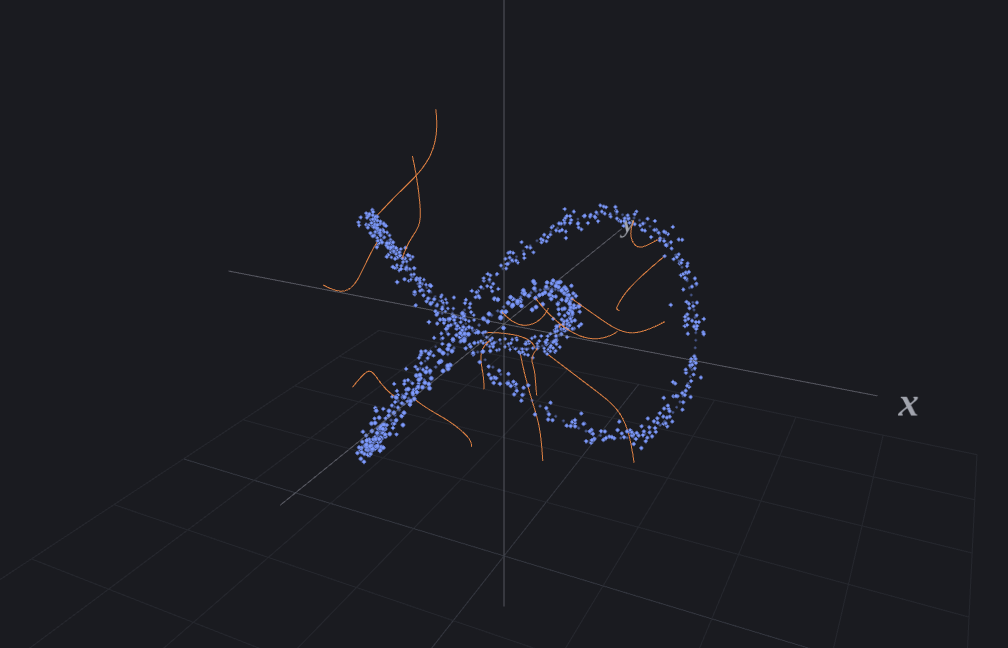
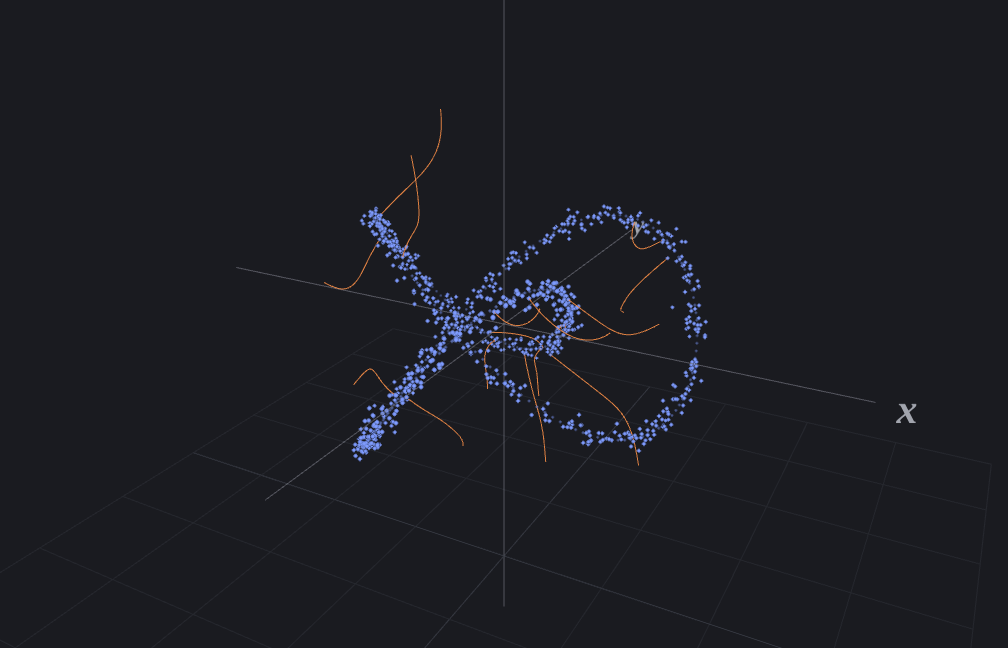
Diffusion: through-time tab, DDIM and log-SNR step spacing; cleaner loss surfaces
Adds a 1D tab showing forward SDE, reverse SDE and probability-flow ODE
paths over the density, a DDIM sampler and a choice of step spacing in
the sampling tab, and cuts 3D loss surfaces at the box instead of
flattening them. Notes updated.

Claude-Session: https://claude.ai/code/session_01T3cejAJMw34bzLhufN7u9S

diff --git a/sims/diffusion/time.js b/sims/diffusion/time.js
@@ -1,0 +1,83 @@
+// "Through time" tab: one-dimensional data, time along the x-axis. Shows the noisy density p_t(x)
+// with paths of the forward SDE (adding noise), the reverse SDE and the probability-flow ODE.
+import { Plot } from '../../assets/js/kit/plot.js';
+import { group, slider, toggle, segmented, dropdown, transport, readouts } from '../../assets/js/kit/ui.js';
+import { renderTex } from '../../assets/js/kit/tex.js';
+import { loop } from '../../assets/js/kit/anim.js';
+import { makeRng } from '../../assets/js/kit/rng.js';
+import { alphaBar, score, reverseStep, forwardStep } from './diffusion.js';
+
+const S1 = 0.1, NS = 320, T1 = 1e-3;
+const DATA1 = {
+  two: { label: 'Two values', c: [-1.3, 1.3] },
+  three: { label: 'Three values', c: [-1.7, 0, 1.7] },
+  uneven: { label: 'Uneven (3 to 1)', c: [-1.2, -1.2, -1.2, 1.5] },
+  one: { label: 'One value', c: [1.2] },
+};
+
+export function tabTime(ctx) {
+  const { stage, panel } = ctx;
+  const st = { data: 'two', mode: 'fwd', prog: 1, np: 14, heat: true, eq: true };
+  const overlay = document.createElement('div'); overlay.className = 'sim-overlay'; const card = document.createElement('div'); card.className = 'card-f'; overlay.append(card); stage.append(overlay);
+  const tmp = new Float64Array(1);
+  let paths = [], cen = new Float64Array(DATA1.two.c);
+  function build() {
+    cen = new Float64Array(DATA1[st.data].c); paths = [];
+    const rng = makeRng([21, 22, 23, 24]), noise = makeRng([31, 32, 33, 34]);   // the same starting points for the SDE and the ODE
+    for (let i = 0; i < st.np; i++) {
+      const pts = [], x = [0];
+      if (st.mode === 'fwd') { x[0] = cen[i % cen.length] + S1 * rng.normal(); pts.push([0, x[0]]); for (let k = 0; k < NS; k++) { forwardStep(x, k / NS, 1 / NS, noise); pts.push([(k + 1) / NS, x[0]]); } }
+      else { x[0] = rng.normal(); pts.push([1, x[0]]); const h = (1 - T1) / NS; for (let k = 0; k < NS; k++) { const t = 1 - h * k; reverseStep(x, t, h, cen, 1, S1, st.mode, noise, tmp); pts.push([t - h, x[0]]); } }
+      paths.push(pts);
+    }
+  }
+  const plot = new Plot(stage, {
+    view: { x: [-0.06, 1.06], y: [-3.3, 3.3] }, tickPx: 90, xLabel: 't', yLabel: 'x',
+    draw: (p) => {
+      const C = p.C, c = p.ctx, A = p.area;
+      if (st.heat) {
+        const cw = 6, ch = 5, nx = Math.ceil(A.w / cw), ny = Math.ceil(A.h / ch); c.save(); c.fillStyle = C.area;
+        for (let i = 0; i < nx; i++) { const t = p.ix(A.x0 + (i + 0.5) * cw); if (t < 0 || t > 1) continue;
+          for (let j = 0; j < ny; j++) { const d = Math.exp(score([p.iy(A.y0 + (j + 0.5) * ch)], Math.max(t, 1e-4), cen, 1, S1, tmp)), a = Math.min(0.62, 0.9 * Math.sqrt(d) * 0.75); if (a < 0.015) continue; c.globalAlpha = a; c.fillRect(A.x0 + i * cw, A.y0 + j * ch, cw, ch); } }
+        c.restore();
+      }
+      p.vline(0, { color: C.fn, width: 2 }); p.vline(1, { color: C.ink3, width: 1.5, dash: [5, 5] });
+      p.text('data', p.x(0) + 8, A.y0 + 16, { color: C.fn, size: 13 }); p.text('pure noise', p.x(1) - 8, A.y0 + 16, { color: C.ink2, size: 13, align: 'right' });
+      const fwd = st.mode === 'fwd', col = fwd ? C.fn : C.approx, n = Math.round(st.prog * NS);
+      for (const pts of paths) { p.poly(pts.slice(0, n + 1), { color: col, width: st.mode === 'ode' ? 1.8 : 1.2, alpha: st.mode === 'ode' ? 0.85 : 0.6 }); }
+      for (const pts of paths) p.dot(pts[n][0], pts[n][1], { r: 3.6, color: col });
+      const tn = paths[0][n][0]; p.vline(tn, { color: C.ink, width: 1, alpha: 0.5 });
+    },
+  });
+  const g0 = group(panel);
+  dropdown(g0, { label: 'Data', options: Object.keys(DATA1).map((k) => ({ value: k, label: DATA1[k].label })), value: st.data, onChange: (v) => { st.data = v; build(); update(); } });
+  segmented(g0, { full: true, value: 'fwd', options: [{ value: 'fwd', label: 'Add noise' }, { value: 'sde', label: 'SDE back' }, { value: 'ode', label: 'ODE back' }], onChange: (v) => { st.mode = v; build(); st.prog = 0; tr.set(true); update(); } });
+  slider(g0, { label: 'Number of paths', min: 1, max: 80, step: 1, value: st.np, fmt: String, onInput: (v) => { st.np = v; build(); update(); } });
+  const lp = loop((dt) => { st.prog = Math.min(1, st.prog + dt * 0.28 * tr.speed.get()); if (st.prog >= 1) tr.set(false); update(); });
+  const tr = transport(g0, {
+    onPlay: (on) => { if (on) { if (st.prog >= 1) st.prog = 0; lp.start(); } else lp.stop(); },
+    onReset: () => { tr.set(false); st.prog = 1; update(); },
+    speed: { min: 0.25, max: 3, step: 0.25, value: 1, fmt: (v) => v.toFixed(2) + '×' },
+  });
+  ctx.onHide(() => tr.set(false));
+  const g1 = group(panel, 'Show');
+  toggle(g1, { label: 'Density $p_t(x)$', checked: true, color: 'var(--c-area)', onChange: (v) => { st.heat = v; update(); } });
+  toggle(g1, { label: 'Equation', checked: true, onChange: (v) => { st.eq = v; update(); } });
+  const ro = readouts(g1, [{ key: 't', label: 'time $t$' }, { key: 's', label: 'signal : noise' }]);
+  const nt = document.createElement('p'); nt.style.cssText = 'color:var(--ink-2);font-size:13px;line-height:1.45;margin:4px 0 0'; g1.append(nt);
+  function update() {
+    const n = Math.round(st.prog * NS), t = paths[0][n][0], a = alphaBar(t);
+    ro.set('t', t.toFixed(3)); ro.set('s', `${Math.sqrt(a).toFixed(2)} : ${Math.sqrt(1 - a).toFixed(2)}`);
+    nt.textContent = st.mode === 'fwd' ? 'Each path starts at a data value and is shaken until nothing of it is left: the whole crowd becomes one bell curve.'
+      : st.mode === 'sde' ? 'Running time backwards with fresh randomness. Each path jitters, but the crowd lands back on the data in the right proportions.'
+      : 'The same starting noise, with no randomness at all. The paths are smooth and never cross, yet the crowd still ends on the data.';
+    overlay.hidden = !st.eq;
+    const tex = st.mode === 'fwd' ? `\\mathrm{d}x=-\\tfrac12\\beta(t)\\,x\\,\\mathrm{d}t+\\sqrt{\\beta(t)}\\;\\mathrm{d}w`
+      : st.mode === 'sde' ? `\\mathrm{d}x=\\Big[-\\tfrac12\\beta(t)\\,x-\\beta(t)\\,\\nabla_x\\log p_t(x)\\Big]\\mathrm{d}t+\\sqrt{\\beta(t)}\\;\\mathrm{d}\\bar w`
+      : `\\frac{\\mathrm{d}x}{\\mathrm{d}t}=-\\tfrac12\\beta(t)\\,x-\\tfrac12\\beta(t)\\,\\nabla_x\\log p_t(x)`;
+    if (st.eq && card.dataset.t !== tex) { card.dataset.t = tex; renderTex(card, tex, true); }
+    plot.redraw();
+  }
+  build();
+  ctx.onShow(update);
+}

diff --git a/sims/diffusion/main.js b/sims/diffusion/main.js
@@ -6,7 +6,8 @@ import { loop } from '../../assets/js/kit/anim.js';
 import { colors, withAlpha } from '../../assets/js/kit/theme.js';
 import { makeRng } from '../../assets/js/kit/rng.js';
 import { Scene3D, THREE, makeLabel } from '../../assets/js/kit/scene3d.js';
-import { ddpmSchedule, alphaBar, beta, logSNR, score, denoise, reverseStep, SHAPES2, SHAPES3, centresOf } from './diffusion.js';
+import { tabTime } from './time.js';
+import { ddpmSchedule, alphaBar, beta, logSNR, score, denoise, reverseStep, ddimStep, forwardStep, timeGrid, SHAPES2, SHAPES3, centresOf } from './diffusion.js';
 
 const S = 0.05, K2 = 120, T1 = 1e-3;
 const VIEW = { x: [-3.6, 3.6], y: [-2.9, 2.9] };
@@ -141,15 +142,16 @@ function tabScore(ctx) {
 function tabSample(ctx) {
   const { stage, panel } = ctx;
   const NP = 320, NTR = 6, rng = makeRng([5, 6, 7, 8]), tmp = new Float64Array(2);
-  const st = { mode: 'sde', steps: 100, k: 0, trails: true, data: true, field: false, formula: true };
+  const st = { mode: 'sde', grid: 'time', steps: 100, k: 0, trails: true, data: true, field: false, formula: true };
   let X = new Float64Array(NP * 2), trails = [];
   const card = overlayCard(stage);
-  const tOf = (k) => 1 - ((1 - T1) * k) / st.steps;
-  function fresh() { for (let i = 0; i < NP * 2; i++) X[i] = rng.normal(); st.k = 0; trails = Array.from({ length: NTR }, (_, i) => [[X[2 * i], X[2 * i + 1]]]); }
+  let T = timeGrid(st.steps, st.grid, T1);
+  const tOf = (k) => T[Math.min(k, st.steps)];
+  function fresh() { T = timeGrid(st.steps, st.grid, T1); for (let i = 0; i < NP * 2; i++) X[i] = rng.normal(); st.k = 0; trails = Array.from({ length: NTR }, (_, i) => [[X[2 * i], X[2 * i + 1]]]); }
   function stepOnce() {
     if (st.k >= st.steps) return false;
-    const t = tOf(st.k), h = (1 - T1) / st.steps, c = centres(), x = [0, 0];
-    for (let i = 0; i < NP; i++) { x[0] = X[2 * i]; x[1] = X[2 * i + 1]; reverseStep(x, t, h, c, 2, S, st.mode, rng, tmp); X[2 * i] = x[0]; X[2 * i + 1] = x[1]; if (i < NTR) trails[i].push([x[0], x[1]]); }
+    const t = T[st.k], h = t - T[st.k + 1], c = centres(), x = [0, 0];
+    for (let i = 0; i < NP; i++) { x[0] = X[2 * i]; x[1] = X[2 * i + 1]; if (st.mode === 'ddim') ddimStep(x, t, t - h, c, 2, S, tmp); else reverseStep(x, t, h, c, 2, S, st.mode, rng, tmp); X[2 * i] = x[0]; X[2 * i + 1] = x[1]; if (i < NTR) trails[i].push([x[0], x[1]]); }
     st.k++; return true;
   }
   fresh();
@@ -170,7 +172,8 @@ function tabSample(ctx) {
   });
   const g0 = group(panel);
   shapeDD(g0, () => { tr.set(false); fresh(); update(); });
-  segmented(g0, { full: true, value: st.mode, options: [{ value: 'sde', label: 'SDE (random)' }, { value: 'ode', label: 'ODE (smooth)' }], onChange: (v) => { st.mode = v; tr.set(false); fresh(); update(); } });
+  segmented(g0, { full: true, value: st.mode, options: [{ value: 'sde', label: 'SDE' }, { value: 'ode', label: 'ODE' }, { value: 'ddim', label: 'DDIM' }], onChange: (v) => { st.mode = v; tr.set(false); fresh(); update(); } });
+  segmented(g0, { full: true, label: 'Steps evenly spaced in', value: 'time', options: [{ value: 'time', label: 'time $t$' }, { value: 'snr', label: 'log-SNR $\\lambda$' }], onChange: (v) => { st.grid = v; tr.set(false); fresh(); update(); } });
   const STEPS = [5, 10, 20, 50, 100, 200, 500];
   slider(g0, { label: 'Number of steps', min: 0, max: STEPS.length - 1, step: 1, value: 4, fmt: (v) => String(STEPS[v]), onInput: (v) => { st.steps = STEPS[v]; tr.set(false); fresh(); update(); } });
   let acc = 0;
@@ -188,13 +191,16 @@ function tabSample(ctx) {
   toggle(g1, { label: 'Score arrows', color: 'var(--c-tangent)', onChange: (v) => { st.field = v; update(); } });
   toggle(g1, { label: 'Equation', checked: true, onChange: (v) => { st.formula = v; update(); } });
   const ro = readouts(g1, [{ key: 'k', label: 'step' }, { key: 't', label: 'time $t$' }, { key: 'b', label: '$\\beta(t)$' }, { key: 'd', label: 'mean distance to data' }]);
+  const nt = document.createElement('p'); nt.style.cssText = 'color:var(--ink-2);font-size:13px;line-height:1.45;margin:4px 0 0'; g1.append(nt);
   function update() {
     const t = tOf(st.k), c = centres(); let D = 0;
     for (let i = 0; i < NP; i++) { let m = Infinity; for (let k = 0; k < K2; k++) { const d = (X[2 * i] - c[2 * k]) ** 2 + (X[2 * i + 1] - c[2 * k + 1]) ** 2; if (d < m) m = d; } D += Math.sqrt(m); }
     ro.set('k', `${st.k} / ${st.steps}`); ro.set('t', t.toFixed(3)); ro.set('b', beta(t).toFixed(2)); ro.set('d', (D / NP).toFixed(3));
     card.show(st.formula, st.mode === 'sde'
       ? `\\mathrm{d}x=\\Big[-\\tfrac12\\beta(t)\\,x-\\beta(t)\\,\\nabla_x\\log p_t(x)\\Big]\\mathrm{d}t+\\sqrt{\\beta(t)}\\;\\mathrm{d}\\bar w`
-      : `\\frac{\\mathrm{d}x}{\\mathrm{d}t}=-\\tfrac12\\beta(t)\\,x-\\tfrac12\\beta(t)\\,\\nabla_x\\log p_t(x)`);
+      : st.mode === 'ode' ? `\\frac{\\mathrm{d}x}{\\mathrm{d}t}=-\\tfrac12\\beta(t)\\,x-\\tfrac12\\beta(t)\\,\\nabla_x\\log p_t(x)`
+      : `\\hat x_0=\\frac{x_t-\\sqrt{1-\\bar\\alpha_t}\\,\\hat\\varepsilon}{\\sqrt{\\bar\\alpha_t}},\\qquad x_s=\\sqrt{\\bar\\alpha_s}\\,\\hat x_0+\\sqrt{1-\\bar\\alpha_s}\\,\\hat\\varepsilon`);
+    nt.textContent = st.mode === 'sde' ? 'The SDE adds fresh randomness at every step, so each point jitters its way home.' : st.mode === 'ode' ? 'The ODE has no randomness: the same starting noise always ends at the same place. Try 5 or 10 steps.' : 'DDIM guesses the clean point, then steps part of the way there. With only 5 or 10 steps, try spacing them evenly in log-SNR.';
     plot.redraw();
   }
   ctx.onShow(update);
@@ -295,6 +301,7 @@ mountSim({
   tabs: [
     { id: 'noise', label: 'Adding noise', init: tabNoise },
     { id: 'score', label: 'Score field', init: tabScore },
+    { id: 'time', label: 'Through time', init: tabTime },
     { id: 'sampling', label: 'Noise to data', init: tabSample },
     { id: 'space', label: 'In 3D', init: tab3D },
   ],

diff --git a/sims/neural-net/space.js b/sims/neural-net/space.js
@@ -86,20 +86,24 @@ export function tabDescent(ctx) {
   const { stage, panel } = ctx;
   const R = 2.2, G = 64, ZMAX = 2.1, NMAX = 150;
   const st = { key: 'valley', start: [...SURFACES.valley.start], lr: 0.3, mom: 0.8, k: 0, plain: true, momOn: true, arrow: true, eq: true };
-  const S = () => SURFACES[st.key], zOf = (x, y) => Math.min(ZMAX, S().f(x, y) * S().zs);
+  const S = () => SURFACES[st.key], raw = (x, y) => S().f(x, y) * S().zs, zOf = (x, y) => Math.min(ZMAX * 1.15, raw(x, y));
   const sc = new Scene3D(stage, { up: [0, 0, 1], dir: [0.55, -0.85, 1.0] });
   const card = overlayCard(stage);
   const surf = new THREE.Group(), dyn = new THREE.Group(); sc.scene.add(surf, dyn);
   function buildSurface() {
     const C = colors(); sc.clear(surf); axes(sc, 2.6, ['w₁', 'w₂', 'L']);
-    const geo = new THREE.PlaneGeometry(2 * R, 2 * R, G, G), pos = geo.attributes.position, col = new Float32Array(pos.count * 3), lo = hex(C.fn), hi = hex(C.stage), c = new THREE.Color(); let zm = 1e-9;
-    for (let i = 0; i < pos.count; i++) { const z = zOf(pos.getX(i), pos.getY(i)); pos.setZ(i, z); zm = Math.max(zm, z); }
-    let zmin = Infinity; for (let i = 0; i < pos.count; i++) zmin = Math.min(zmin, pos.getZ(i));
-    for (let i = 0; i < pos.count; i++) { c.copy(lo).lerp(hi, Math.sqrt((pos.getZ(i) - zmin) / (zm - zmin || 1)) * 0.85); col[3 * i] = c.r; col[3 * i + 1] = c.g; col[3 * i + 2] = c.b; }
+    const geo = new THREE.PlaneGeometry(2 * R, 2 * R, G, G), pos = geo.attributes.position, col = new Float32Array(pos.count * 3), lo = hex(C.fn), hi = hex(C.stage), c = new THREE.Color();
+    let zmin = Infinity;
+    for (let i = 0; i < pos.count; i++) { const z = raw(pos.getX(i), pos.getY(i)); pos.setZ(i, z); zmin = Math.min(zmin, z); }
+    for (let i = 0; i < pos.count; i++) { c.copy(lo).lerp(hi, Math.sqrt(Math.min(1, Math.max(0, (pos.getZ(i) - zmin) / (ZMAX - zmin)))) * 0.85); col[3 * i] = c.r; col[3 * i + 1] = c.g; col[3 * i + 2] = c.b; }
+    // the surface is cut off where it leaves the box (no flat shelf)
+    const idx = geo.index.array, keep = [];
+    for (let i = 0; i < idx.length; i += 3) if (pos.getZ(idx[i]) <= ZMAX && pos.getZ(idx[i + 1]) <= ZMAX && pos.getZ(idx[i + 2]) <= ZMAX) keep.push(idx[i], idx[i + 1], idx[i + 2]);
+    geo.setIndex(keep);
     geo.setAttribute('color', new THREE.BufferAttribute(col, 3)); geo.computeVertexNormals();
     surf.add(new THREE.Mesh(geo, new THREE.MeshLambertMaterial({ vertexColors: true, side: THREE.DoubleSide, transparent: true, opacity: 0.9, polygonOffset: true, polygonOffsetFactor: 1, polygonOffsetUnits: 1 })));
-    const lines = [], n = 16;
-    for (let i = 0; i <= n; i++) for (let j = 0; j < G; j++) { const a = -R + (2 * R * i) / n, b0 = -R + (2 * R * j) / G, b1 = b0 + (2 * R) / G; lines.push(a, b0, zOf(a, b0), a, b1, zOf(a, b1), b0, a, zOf(b0, a), b1, a, zOf(b1, a)); }
+    const lines = [], n = 16, seg = (x0, y0, x1, y1) => { const z0 = raw(x0, y0), z1 = raw(x1, y1); if (z0 <= ZMAX && z1 <= ZMAX) lines.push(x0, y0, z0, x1, y1, z1); };
+    for (let i = 0; i <= n; i++) for (let j = 0; j < G; j++) { const a = -R + (2 * R * i) / n, b0 = -R + (2 * R * j) / G, b1 = b0 + (2 * R) / G; seg(a, b0, a, b1); seg(b0, a, b1, a); }
     surf.add(new THREE.LineSegments(new THREE.BufferGeometry().setAttribute('position', new THREE.BufferAttribute(new Float32Array(lines), 3)), new THREE.LineBasicMaterial({ color: hex(C.ink), transparent: true, opacity: 0.22 })));
   }
   const paths = () => ({ p: descend(S(), st.start, st.lr, 0, NMAX), m: descend(S(), st.start, st.lr, st.mom, NMAX) });
@@ -130,7 +134,7 @@ export function tabDescent(ctx) {
   }
   sc.applyTheme = () => { buildSurface(); refresh(); };
   const g0 = group(panel);
-  dropdown(g0, { label: 'Loss surface', options: Object.keys(SURFACES).map((k) => ({ value: k, label: SURFACES[k].label })), value: st.key, onChange: (v) => { st.key = v; st.start = [...S().start]; s1.set(st.start[0]); s2.set(st.start[1]); tr.set(false); st.k = 0; buildSurface(); refresh(); } });
+  dropdown(g0, { label: 'Loss surface', options: Object.keys(SURFACES).map((k) => ({ value: k, label: SURFACES[k].label })), value: st.key, onChange: (v) => { st.key = v; st.start = [...S().start]; s1.set(st.start[0]); s2.set(st.start[1]); tr.set(false); st.k = 40; buildSurface(); refresh(); } });
   slider(g0, { label: 'Learning rate $\\eta$', min: 0.01, max: 1, step: 0.01, value: st.lr, color: 'var(--c-approx)', fmt: (v) => v.toFixed(2), onInput: (v) => { st.lr = v; refresh(); } });
   slider(g0, { label: 'Momentum $\\mu$', min: 0, max: 0.98, step: 0.01, value: st.mom, color: 'var(--c-area)', fmt: (v) => v.toFixed(2), onInput: (v) => { st.mom = v; refresh(); } });
   const s1 = slider(g0, { label: 'Start $w_1$', min: -2, max: 2, step: 0.02, value: st.start[0], fmt: (v) => fmtNum(v, 2), onInput: (v) => { st.start[0] = v; refresh(); } });

diff --git a/sims/diffusion/diffusion.js b/sims/diffusion/diffusion.js
@@ -85,3 +85,31 @@ export function centresOf(shape, K, d) {
   for (let i = 0; i < K; i++) { const p = shape.f((i + 0.5) / K, i, K); for (let j = 0; j < d; j++) out[i * d + j] = p[j]; }
   return out;
 }
+
+/**
+ * One DDIM step from time t to an earlier time s (the first-order DPM-Solver), in place, no randomness.
+ * Predict the noise, use it to guess the clean point, then re-noise that guess to the level of time s:
+ * eps = -sqrt(1 - abar_t) score,  x0 = (x - sqrt(1 - abar_t) eps) / sqrt(abar_t),  x_s = sqrt(abar_s) x0 + sqrt(1 - abar_s) eps
+ */
+export function ddimStep(x, t, s, centres, d, sw, tmp) {
+  score(x, t, centres, d, sw, tmp);
+  const at = alphaBar(t), as = alphaBar(s), st = Math.sqrt(1 - at), ss = Math.sqrt(1 - as);
+  for (let j = 0; j < d; j++) { const eps = -st * tmp[j], x0 = (x[j] - st * eps) / Math.sqrt(at); x[j] = Math.sqrt(as) * x0 + ss * eps; }
+}
+/** One forward (noising) Euler–Maruyama step of size h from time t: dx = -1/2 beta x dt + sqrt(beta) dW */
+export function forwardStep(x, t, h, rng) {
+  const b = beta(t), sd = Math.sqrt(b * h);
+  for (let j = 0; j < x.length; j++) x[j] += -0.5 * b * x[j] * h + sd * rng.normal();
+}
+/** The time at which the log-SNR equals l (inverse of logSNR) */
+export function tOfLogSNR(l) {
+  const c = Math.log(1 + Math.exp(-l)), a = 0.5 * (BMAX - BMIN);   // -ln(abar) = BMIN t + a t^2
+  return (-BMIN + Math.sqrt(BMIN * BMIN + 4 * a * c)) / (2 * a);
+}
+/** n+1 times from t = 1 down to tEnd, evenly spaced in t ('time') or in log-SNR ('snr': the DPM-Solver clock) */
+export function timeGrid(n, kind = 'time', tEnd = 1e-3) {
+  const out = [];
+  if (kind === 'snr') { const l1 = logSNR(1), l0 = logSNR(tEnd); for (let k = 0; k <= n; k++) out.push(k === 0 ? 1 : k === n ? tEnd : tOfLogSNR(l1 + ((l0 - l1) * k) / n)); }
+  else for (let k = 0; k <= n; k++) out.push(1 - ((1 - tEnd) * k) / n);
+  return out;
+}

diff --git a/CLAUDE.md b/CLAUDE.md
@@ -17,6 +17,10 @@ Extras beyond the brief (built with the spare time, delete freely if unwanted):
 9. **Complex numbers** — arithmetic (z+w, zw, z/w with construction) · roots · loci · Euler's formula from its series
 10. **Differential equations** — slope field · Euler's method (Euler and improved Euler) · convergence (log-log) · oscillations (second order, roots of the auxiliary equation)
 
+Machine learning sims (added later, notation follows jacobgoodchild.github.io/learn-ml: $\beta_n$, $\alpha_n = 1-\beta_n$, $\bar\alpha_n$, score, log-SNR):
+11. **Neural networks** (three.js for two tabs) — through the network (forward pass / backpropagation on a 2-4-3-1 diagram, hover a neuron for its sum, one learning step) · training (live decision map, loss curve) · hidden space (3D: the input plane bent by three hidden neurons, with the output neuron's dividing plane) · gradient descent (3D loss surfaces, plain against momentum)
+12. **Diffusion models** (three.js for one tab) — adding noise (DDPM forward process, 1000 steps) · score field (exact score arrows, density, denoised guess) · through time (1D: forward SDE, reverse SDE, probability-flow ODE paths over the density) · noise to data (2D sampling: SDE / ODE / DDIM, steps even in time or in log-SNR) · in 3D (points flowing from noise onto a 3D shape, score vectors)
+
 Next: polish. See "Polish list" at the bottom.
 
 ## Layout
@@ -27,11 +31,11 @@ Next: polish. See "Polish list" at the bottom.
   - `plot.js` canvas graph helper: dpr-crisp, axes/ticks (auto, π, degrees, log, integer), pan + zoom + reset-view, draggable handles (keyboard: arrows move, Enter switches handle), curve() that breaks at asymptotes, fillBetween, arrows, `inset`/`pin` for axes at the edge
   - `theme.js` light/dark + `colors()` for canvas · `tex.js` KaTeX · `anim.js` loops · `funcs.js` shared function library (f, f′, f″, F) with Gauss–Legendre quadrature · `rng.js` sfc32 + Box–Muller + exact binomial pmf
 - `assets/vendor/` local KaTeX, three.js (+ OrbitControls). Fonts in `assets/fonts/` (Instrument Sans, Newsreader).
-- Pure maths lives in separate modules so it can be tested in node: `sims/*/series.js`, `riemann.js`, `mat.js`, `nr.js`, `assets/js/kit/{funcs,rng}.js`. `assets/js/kit/scene3d.js` is the shared three.js wrapper (volumes + matrices 3D); pages that use it need the importmap.
+- Pure maths lives in separate modules so it can be tested in node: `sims/*/series.js`, `riemann.js`, `mat.js`, `nr.js`, `neural-net/nn.js`, `diffusion/diffusion.js`, `assets/js/kit/{funcs,rng}.js`. `assets/js/kit/scene3d.js` is the shared three.js wrapper (volumes + matrices 3D); pages that use it need the importmap.
 - `tools/`: `shot.mjs` (screenshots a sim in light + dark, prints console errors: `node tools/shot.mjs sims/unit-circle tab1,tab2`; images go to /tmp/claude-0/shots/), `previews*.mjs`, and `test-*.mjs` (run them all with `for f in tools/test-*.mjs; do node $f; done`).
 
 ## Testing
-- `sh tools/test-all.sh` — pure maths (series coefficients vs known results, Riemann rules vs hand calculations and exact integrals, binomial pmf and samplers, matrix/eigen maths in 2D and 3D, Newton iterates vs hand calculation, volumes, ODE solvers and their orders of convergence, complex roots/Euler's formula).
+- `sh tools/test-all.sh` — pure maths (series coefficients vs known results, Riemann rules vs hand calculations and exact integrals, binomial pmf and samplers, matrix/eigen maths in 2D and 3D, Newton iterates vs hand calculation, volumes, ODE solvers and their orders of convergence, complex roots/Euler's formula, backprop vs finite differences, diffusion score vs finite differences and SDE/ODE/DDIM samplers landing on the data).
 - `node tools/monkey.mjs sims/<id>` — clicks every dropdown option, slider extreme, toggle, button, drag and wheel in every tab and reports console errors (volumes takes a few minutes in software WebGL).
 - `node tools/shot.mjs …` for screenshots in both themes (look at them!). Viewport via `VW`/`VH`, post-load script via `SCRIPT=file.mjs`.
 - GitHub Pages is live at the URL above (checked with a headless browser against the deployed site).
@@ -49,6 +53,9 @@ Next: polish. See "Polish list" at the bottom.
 - Matrices: determinant colour flips to pink and the orientation arc reverses when det < 0. Animation uses the preset parameter (rotation turns, not shrinks).
 - Newton–Raphson: failure cases are examples in the dropdown (flung away, cycle, diverges, unexpected root, repeated root). Extra tabs: basins, cobweb, bisection.
 - Volumes: the surface geometry is refilled (not rebuilt) when only the sweep angle changes. Rotating about the y-axis uses π∫x² dy and only works for monotone curves with a ≥ 0 (the button disables otherwise).
+- Diffusion: no trained network. The data is a mixture of narrow Gaussians along a shape, so the noisy density $p_t$ and its score are known exactly in any dimension (`score()` in `diffusion.js`, checked against finite differences). Continuous time uses the variance-preserving SDE with $\beta(t)$ linear from 0.1 to 20; the "Adding noise" tab uses the discrete DDPM schedule ($\beta_n$ from $10^{-4}$ to 0.02, N = 1000). Measured, and tested: with 10 steps, spacing them evenly in log-SNR roughly halves the distance to the data compared with even time steps; DDIM against Euler makes little difference here.
+- Neural networks: tanh hidden layers, sigmoid output, cross-entropy loss; backprop is tested against finite differences. Training uses full-batch gradient descent with momentum 0.9. The 3D hidden-space tab is a 2-3-1 network so the hidden layer is exactly a point in 3D. Loss surfaces are cut off where they leave the box rather than flattened. Colours: class 1 = blue, class 0 = orange, gradients = green, positive/negative weights = blue/pink.
+- 3D tabs that animate (diffusion 3D, hidden space) spin slowly by default; the "Turn slowly" toggle stops it.
 - Complex numbers and differential equations are extras (see Status). ODE solution curves stop where the slope passes 30 (vertical tangents) instead of drawing RK4 noise.
 - `404.html` is self-contained (no site paths) and works out the way home from the address, because a 404 can be served from any depth.
 - Phones are not handled yet (brief says a later session does that). Pointer events are used so touch works, and two-finger pinch zoom + pan works on every pan/zoom-enabled graph (tested with synthetic touch events).
@@ -64,4 +71,5 @@ Next: polish. See "Polish list" at the bottom.
 ## Polish list (ongoing)
 - Phone layout and pinch-zoom (planned later session).
 - Keep checking: overlapping labels, clutter at default state, console errors, both themes.
+- ML ideas not built: a network trained in the browser to predict the noise (so the learned score can be compared with the exact one), flow matching, attention, convolution filters.
 - Ideas not built: rotation about y = k (volumes), vectors/planes in 3D, polar and parametric curves, hyperbolic functions.
